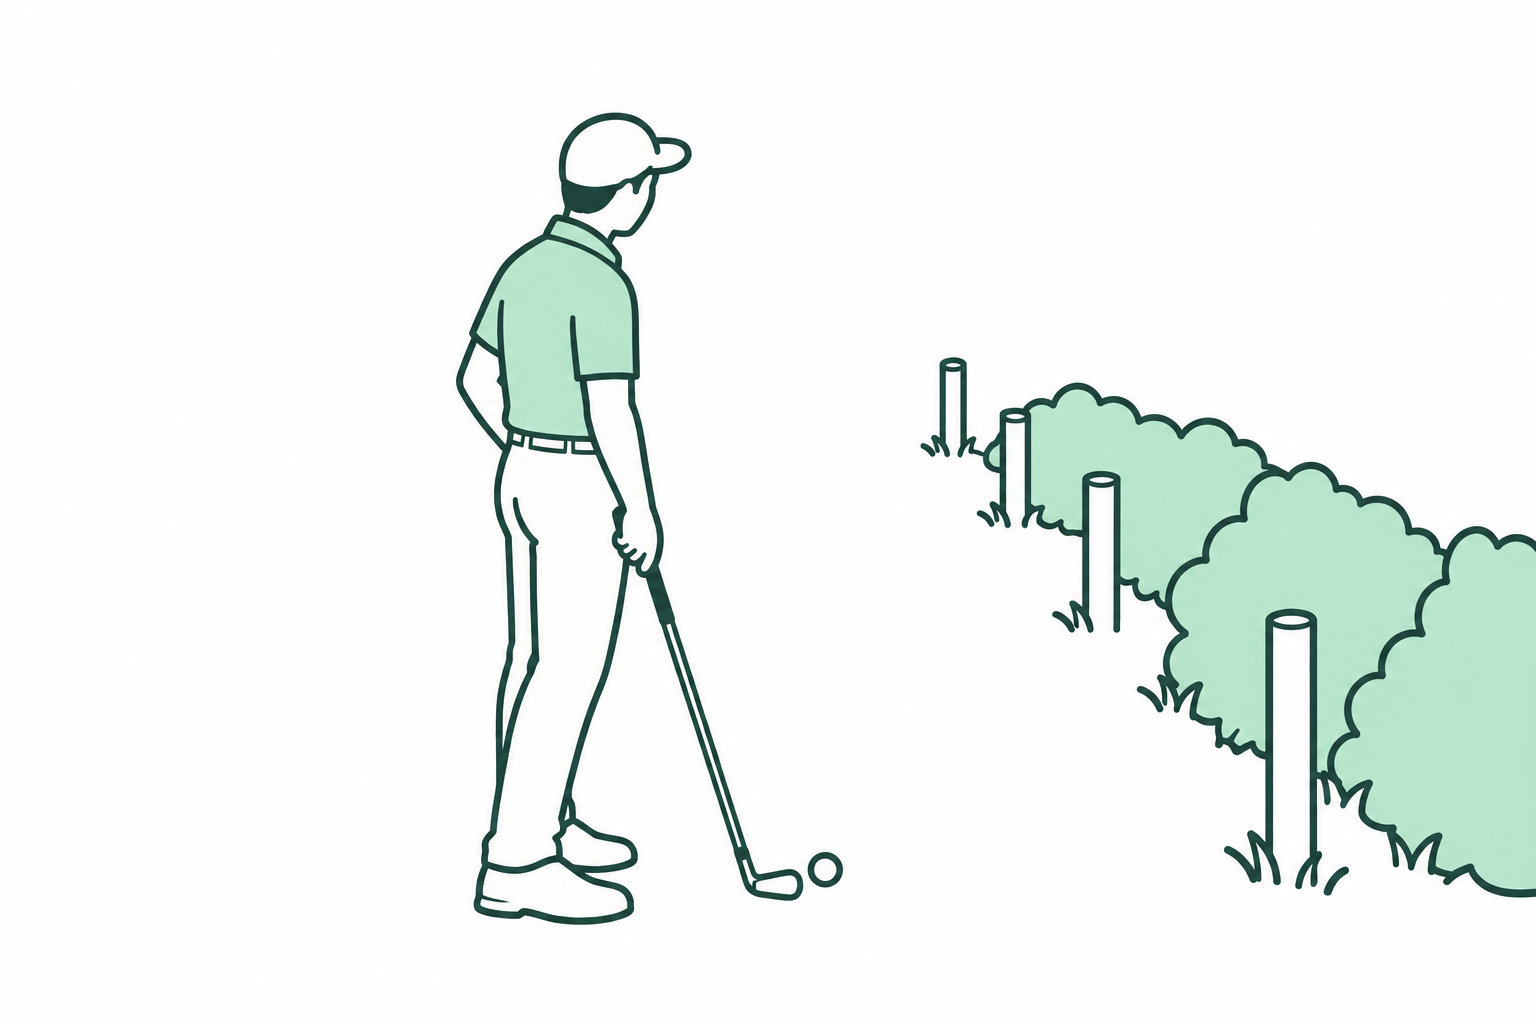
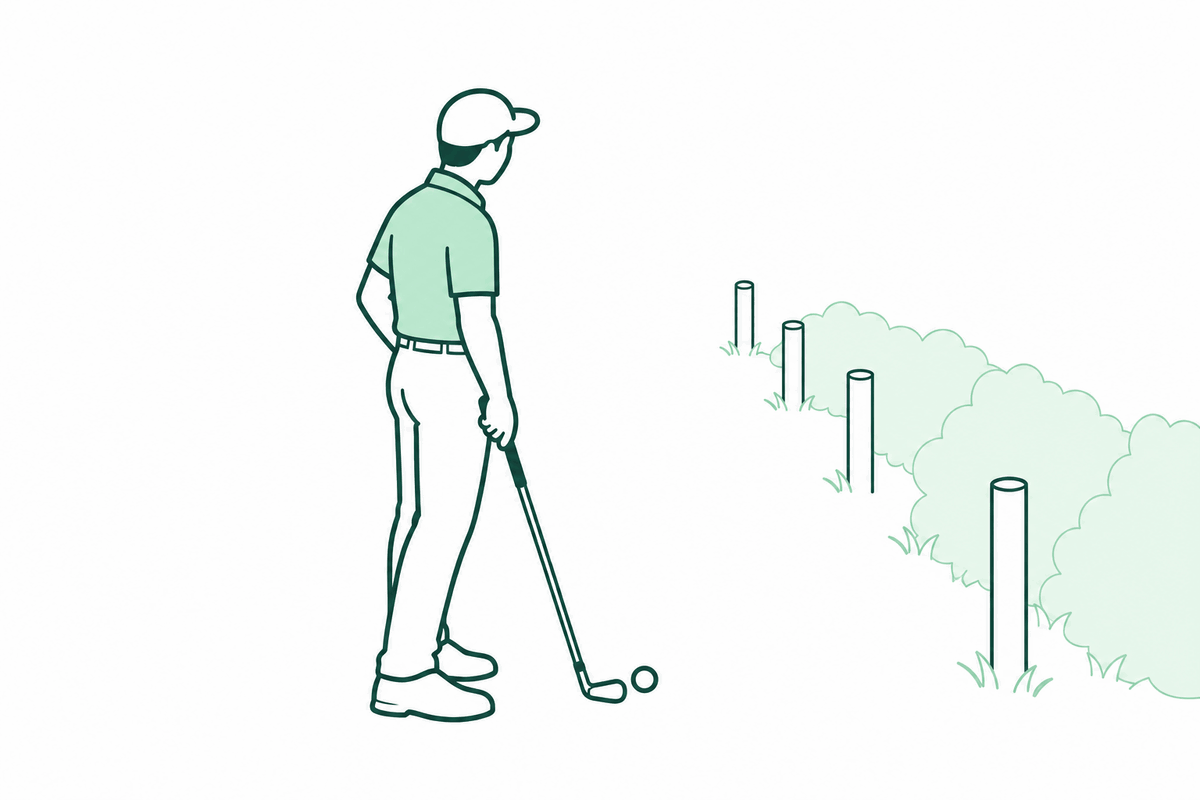
Refine foreground and background line weights in OB and yellow-area guides

diff --git a/assets/rule-guides.js b/assets/rule-guides.js
@@ -1,7 +1,7 @@
 /* High-resolution rule illustrations. No SVG or low-resolution fallback. */
 (function (root) {
   'use strict';
-  const version = '20260930-minimal-a1';
+  const version = '20261105-line-weight';
   const guides = {
     'ob-boundary': { image:'ob-boundary', title:'OBの境界は、球全体で判定', label:'球の一部でもコース内にあればOBではない', steps:['白杭だけの場合は、地表面での杭のコース側の点を結ぶ線が境界。白線の場合はコース側の縁が境界で、線自体はOB側。','球全体が境界の外にあればOB。球の一部でもコース内にあればOBではない。','コース内の球をOB側に立って打つことはできる。白杭を抜いたり動かしたりしてはいけない。'] },
     'tee-area': { image:'tee-area', title:'ティーイングエリアの範囲', label:'球の位置を確認。足はエリア外でもよい', steps:['指定された2つのティーマーカーの最も前方の点を結ぶ線が前縁。側縁はそれぞれのマーカーの外側。','後方2クラブレングスの長方形がエリア。携帯する最も長いクラブ（パターを除く）で測る。','球の一部がエリアに触れるか、その上にあればエリア内。区域外から打った場合の処置は競技形式によって異なるため本文を確認。'] },
